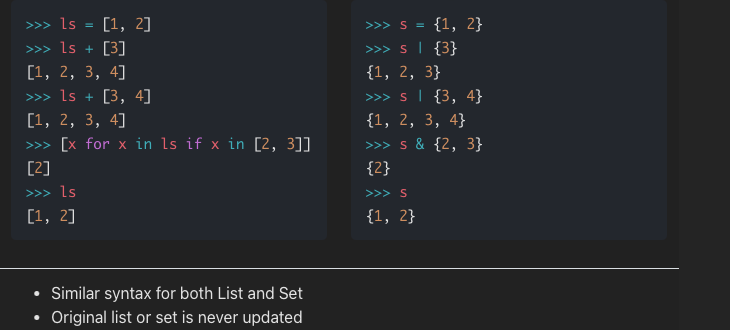
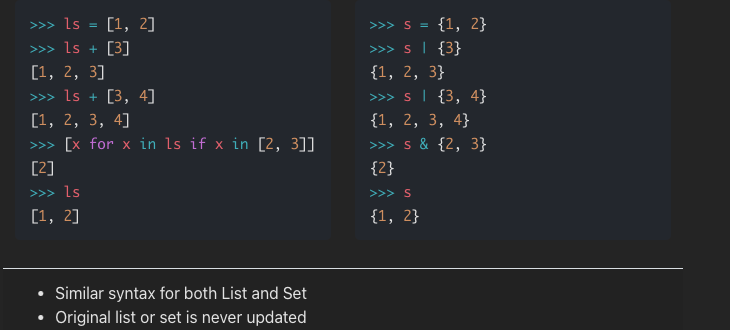
fix wrong calculation

diff --git a/content/posts/python-list-set-syntax-recommendation.md b/content/posts/python-list-set-syntax-recommendation.md
@@ -119,7 +119,7 @@ Set:
 ```python
 >>> ls = [1, 2]                   
 >>> ls + [3]
-[1, 2, 3, 4]
+[1, 2, 3]
 >>> ls + [3, 4]
 [1, 2, 3, 4]
 >>> [x for x in ls if x in [2, 3]]
